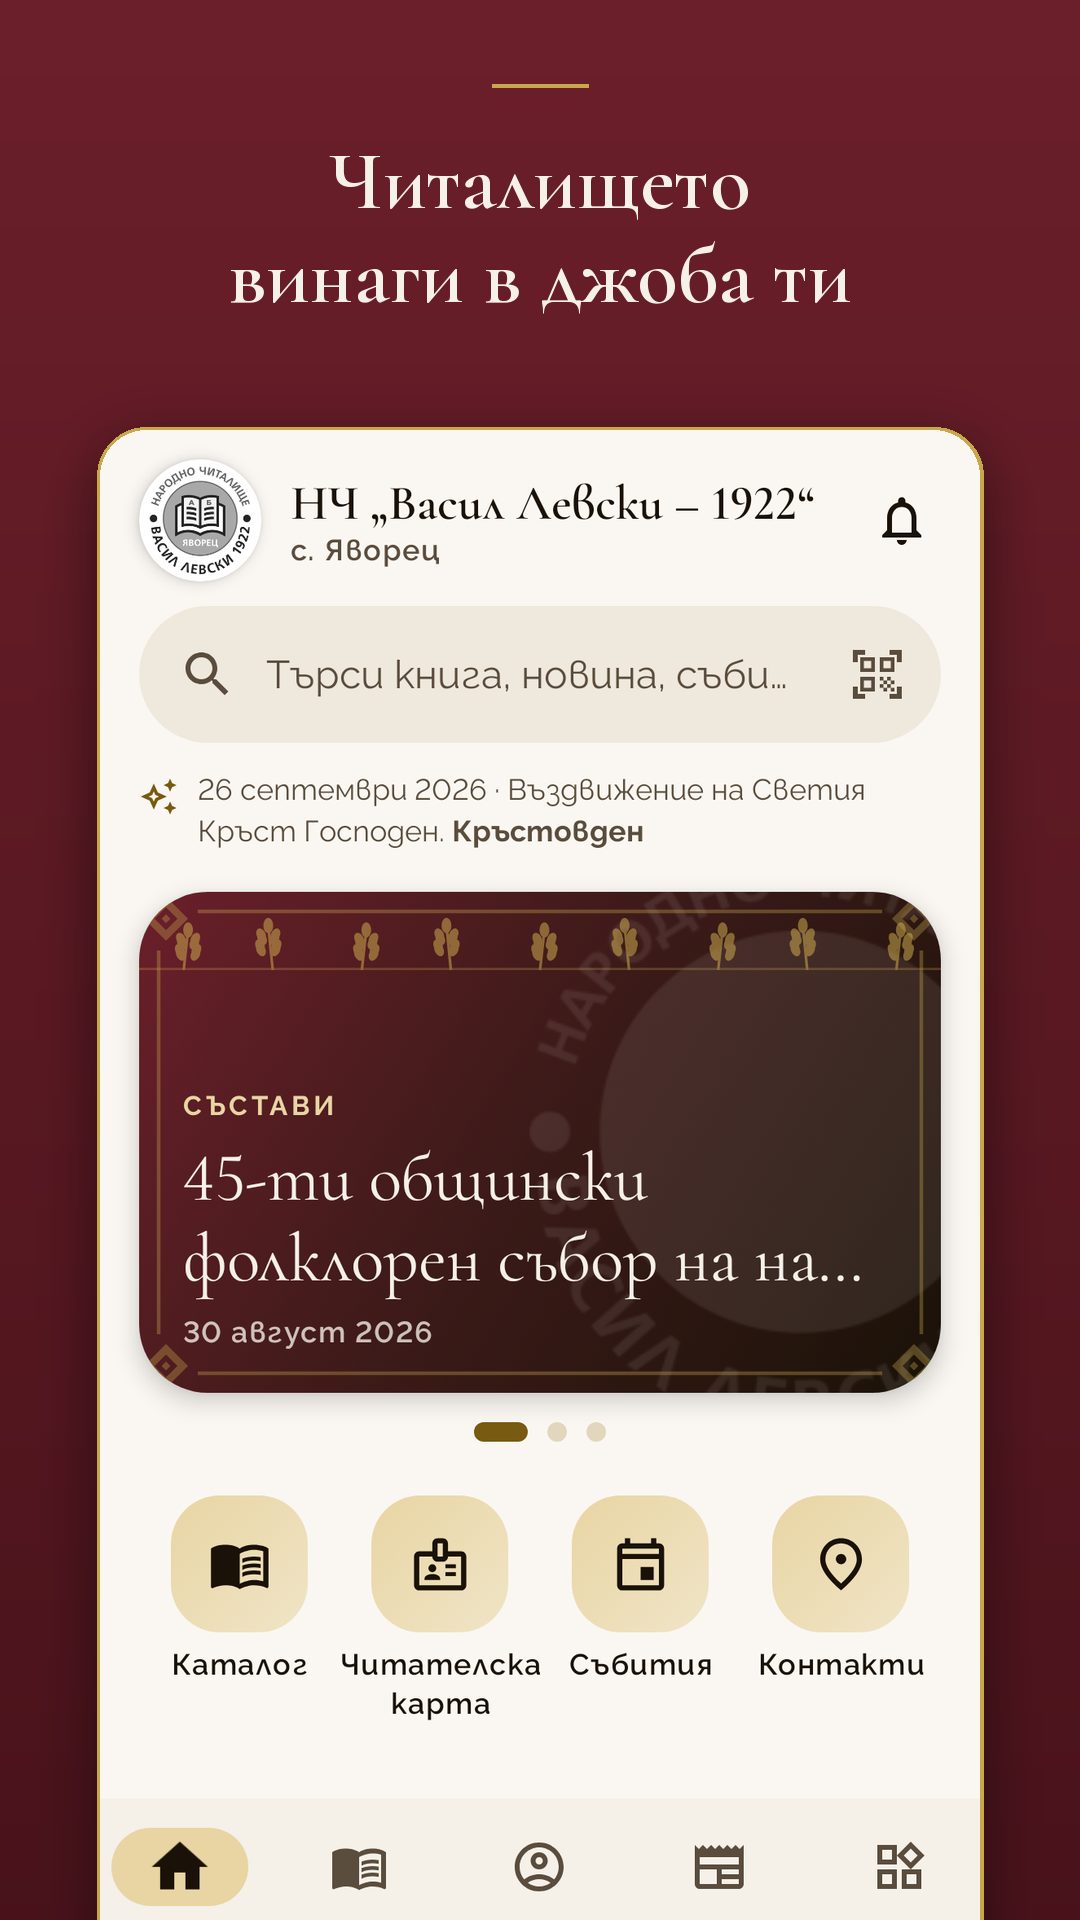
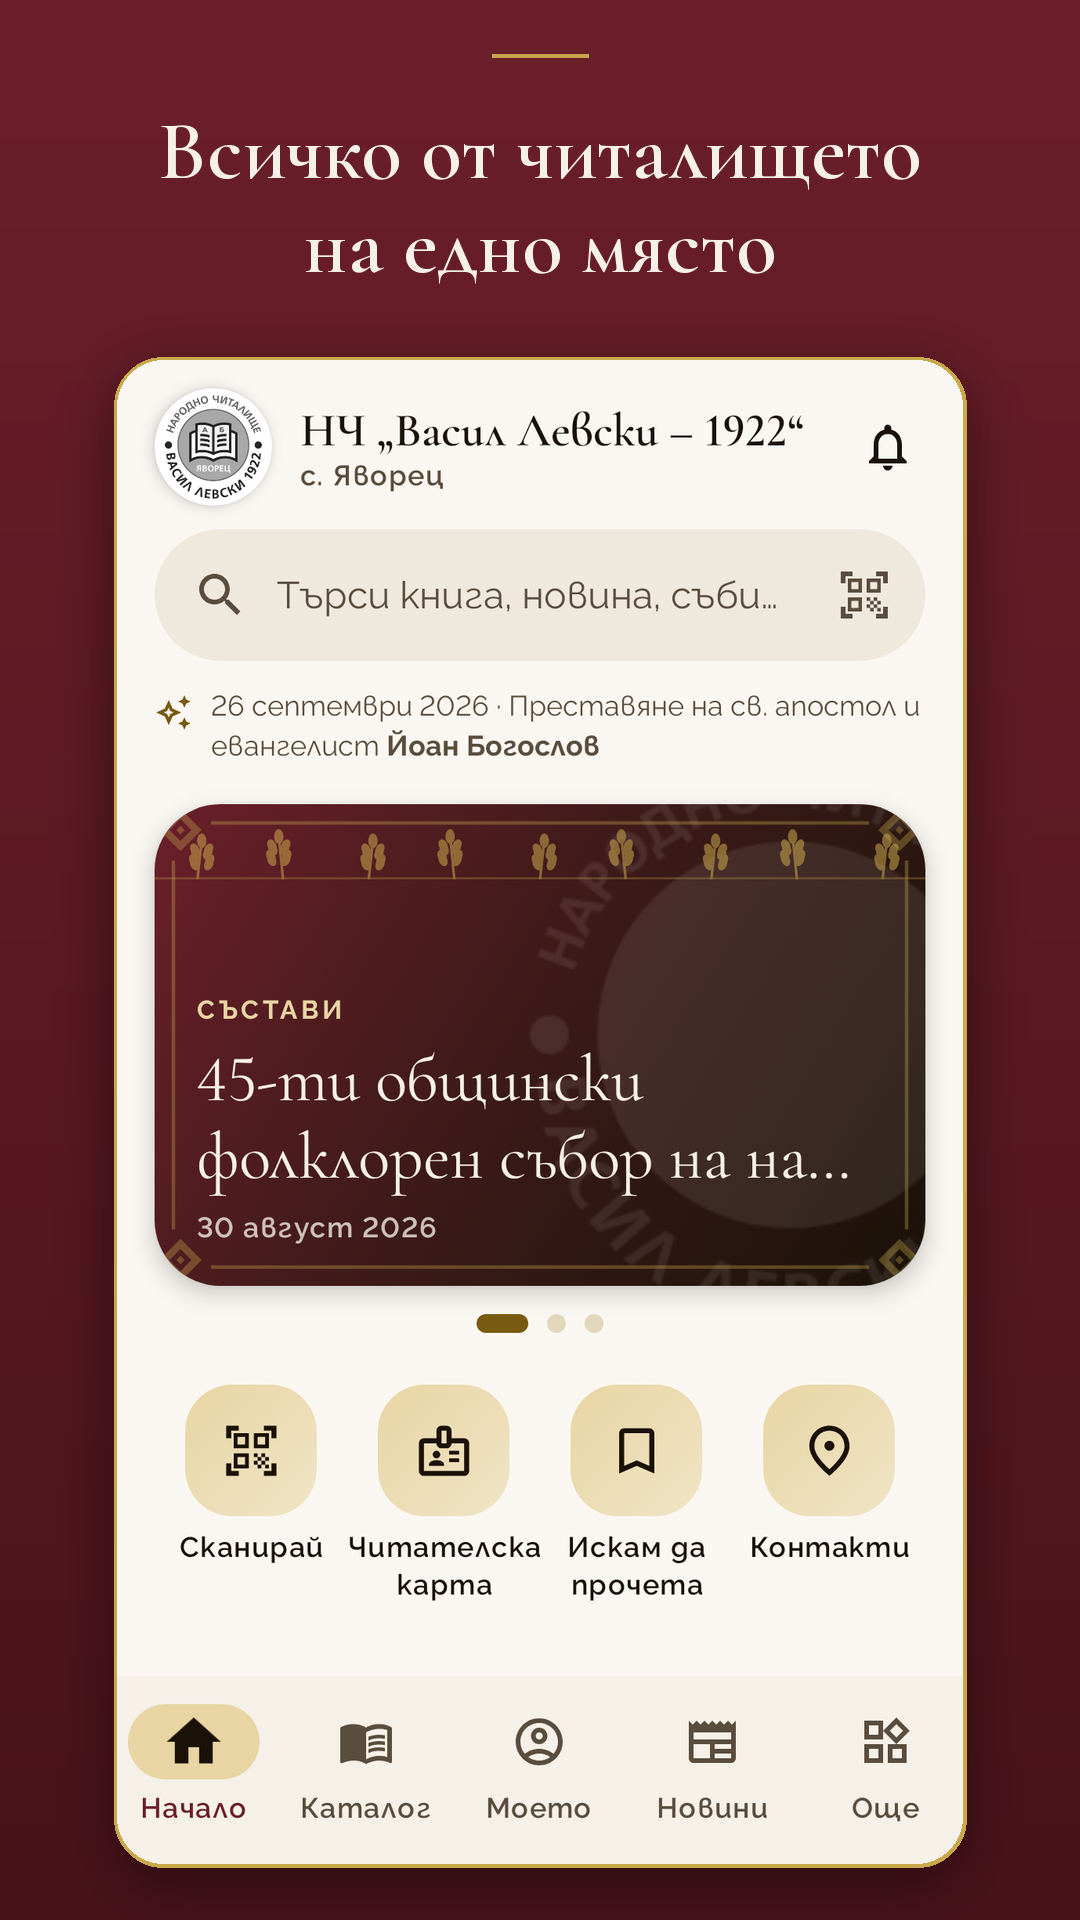
store/screenshots: нови снимки за Play от bfefdd9 (8 екрана, нови надписи)
Claude-Session: https://claude.ai/code/session_01RYYSxVu9vthp794EkkqTGn

Changed region(s): [[0.0917, 0.0625, 0.9167, 1.0], [0.7028, 0.5938, 0.7639, 0.625], [0.6417, 0.2812, 0.6722, 0.3125]]

diff --git a/store/screenshots/README.md b/store/screenshots/README.md
@@ -13,7 +13,7 @@ python3 tools/play_screenshots.py
 | Файл | Екран | Надпис |
 |---|---|---|
 | `01-home-light.png` | Начало (светла тема) | Всичко от читалището на едно място |
-| `02-catalog.png` | Електронен каталог с наличността | Целият каталог, с наличността на рафта |
+| `02-catalog.png` | Електронен каталог с наличността | Целият каталог и кое е на рафта сега |
 | `03-book.png` | Книга, която не е на рафта: „Искам да прочета“, „Кажи ми, когато е на рафта“ | Искам да прочета — разбери, щом книгата е на рафта |
 | `04-card.png` | Дигиталната читателска карта (лице и гръб) | Читателската карта винаги с теб |
 | `05-events.png` | „Новини и събития“ → „Календар“ с абонамента за календара | Абонирай се за събитията в календара |
